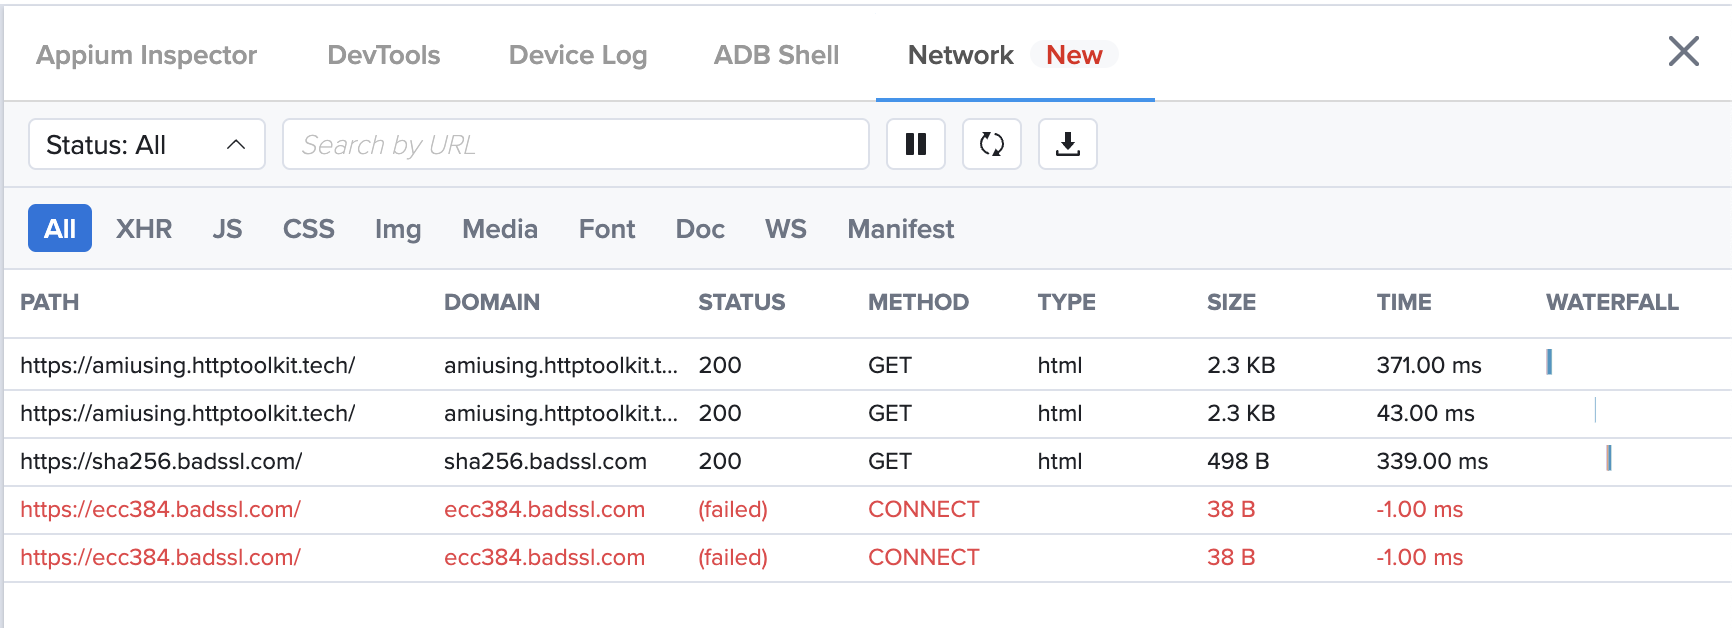
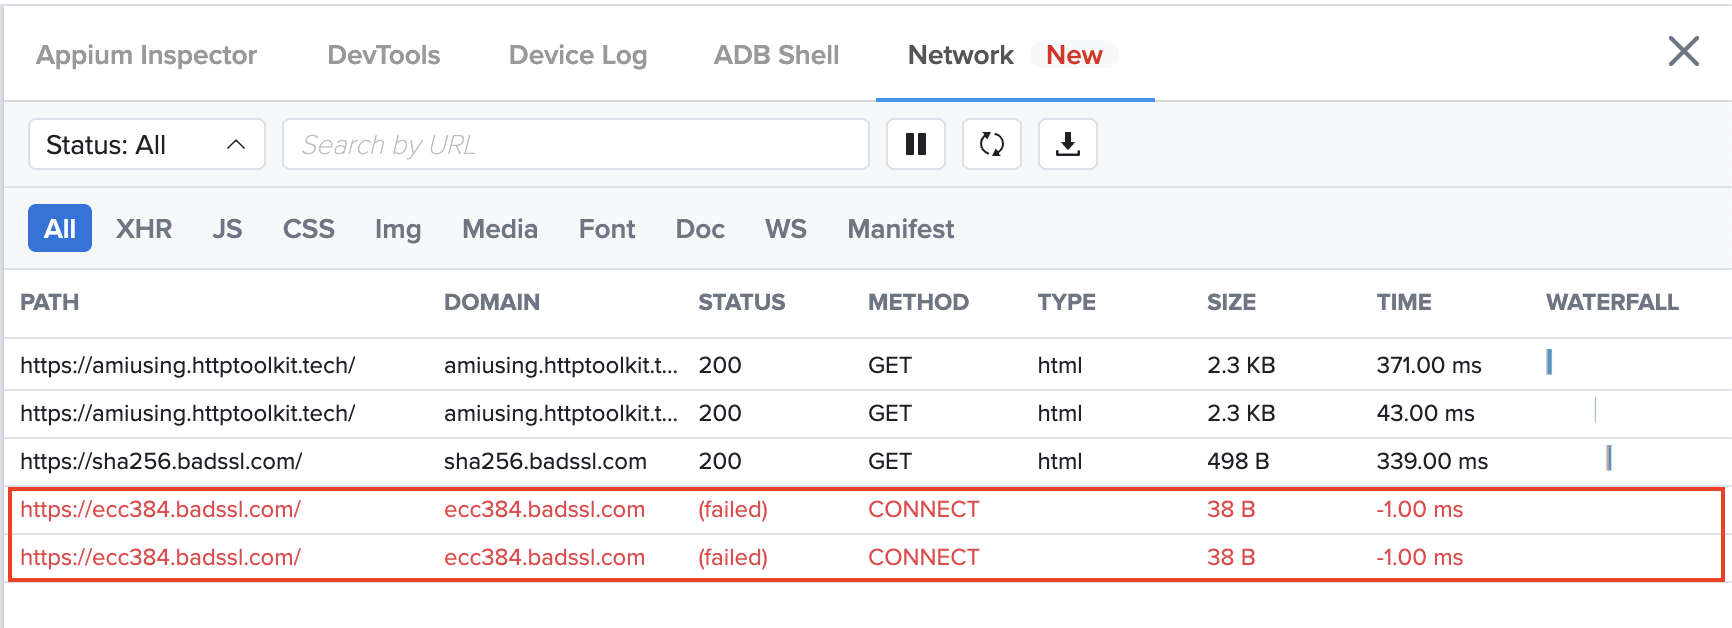
Slight wording change + add red highlight to screenshot

Changed region(s): [[0.0, 0.9076, 0.9977, 0.9379], [0.0, 0.7564, 0.9977, 0.7866]]

diff --git a/docs/mobile-apps/features/network-capture.md b/docs/mobile-apps/features/network-capture.md
@@ -229,15 +229,15 @@ response headers, and the request and response payloads.
 <img src={useBaseUrl('img/mobile-apps/network-capture-request-details.png')} alt="Inspect network logs" width="700"/>
 
 #### Failed requests
-Some requests will fail before even sending any HTTP data, these will also appear in the requests table in red, with a status of "failed" (instead of a legitimate HTTP status code). Usually these are caused by SSL errors, likely because either:
-- The SSL certificate is misconfigured or expired
-- Your app uses [SSL pinning](https://owasp.org/www-community/controls/Certificate_and_Public_Key_Pinning)
+Some requests will fail before even sending any HTTP data, and will appear in the requests table in red, with a status of "failed" (instead of a legitimate HTTP status code). They are usually caused by SSL errors, which in turn may be a sign of:
+- A misconfigured or expired SSL certificate
+- The usage of [SSL pinning](https://owasp.org/www-community/controls/Certificate_and_Public_Key_Pinning) in a mobile app
 
 <img src={useBaseUrl('img/mobile-apps/network-capture-failed-requests.png')} alt="Network capture failed requests" width="700"/>
 
-When an app uses SSL pinning, SSL requests will fail while network capture is active, because  outgoing requests will be signed a Sauce Labs certificate, instead of the one included with your app.
+When an app uses SSL pinning, encrypted traffic will not work while network capture is active, because outgoing requests will be signed using a Sauce Labs certificate instead of the one included with the app.
 
-If you see failed network requests to domains you're trying to test, try to rule out (and remove) SSL pinning from your app first. Even if it was not implemented deliberately, SSL pinning may sometimes come included out-of-the-box with some mobile SDKs or libraries.
+If you see failed network requests to domains you're trying to test, try to rule out (and remove) SSL pinning from the app first. Even if it was not implemented deliberately, SSL pinning may sometimes come included out-of-the-box with some mobile SDKs or libraries.
 
 #### Stats Row
 The Stats row in the footer provides details on the number of requests, transferred data size, resource sizes, and time metrics such as
